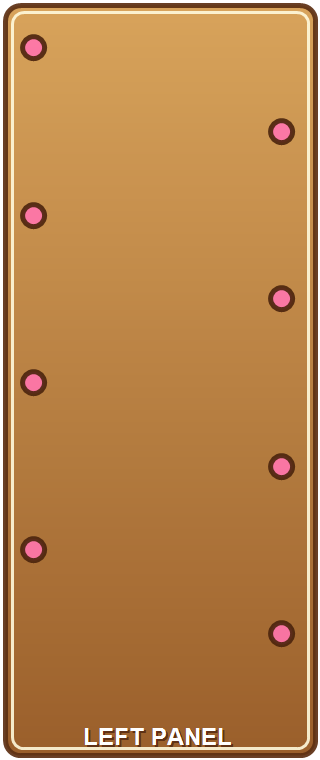
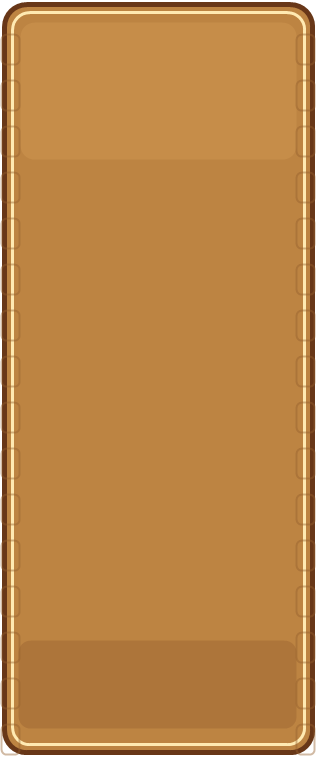
內容: 更新 script-owned TD UI 素材
替換 scripts/base_content/assets/td_ui 的左右面板、塔圖示與升級路線圖示，讓 TD UI 預設從 script asset 目錄載入時使用新版透明 PNG 素材。

同步勾選 script-owned TD UI assets 的手動驗證項目，記錄沒有 omfx/data fallback、替換圖檔與專屬升級圖缺失時的 fallback 情境已完成確認。

Changed region(s): [[0.0, 0.0, 1.0, 0.9987]]

diff --git a/openspec/changes/script-owned-td-ui-assets/tasks.md b/openspec/changes/script-owned-td-ui-assets/tasks.md
@@ -31,7 +31,7 @@
 ## 5. 驗證
 
 - [x] 5.1 執行 `cargo check --manifest-path omfx/Cargo.toml`。
-- [ ] 5.2 手動確認 TD UI 在沒有 `omfx/data/td_ui/` 時仍能從 scripts asset 目錄載入圖片。
-- [ ] 5.3 手動替換一張 scripts asset PNG，確認重新啟動後 UI 顯示替換結果。
-- [ ] 5.4 手動確認缺少專屬升級圖時會 fallback 到 `upgrade_p*.png` 或 `tower_fallback.png` 且不 panic。
+- [x] 5.2 手動確認 TD UI 在沒有 `omfx/data/td_ui/` 時仍能從 scripts asset 目錄載入圖片。
+- [x] 5.3 手動替換一張 scripts asset PNG，確認重新啟動後 UI 顯示替換結果。
+- [x] 5.4 手動確認缺少專屬升級圖時會 fallback 到 `upgrade_p*.png` 或 `tower_fallback.png` 且不 panic。
 - [x] 5.5 修改完成後執行 `graphify update .`。
